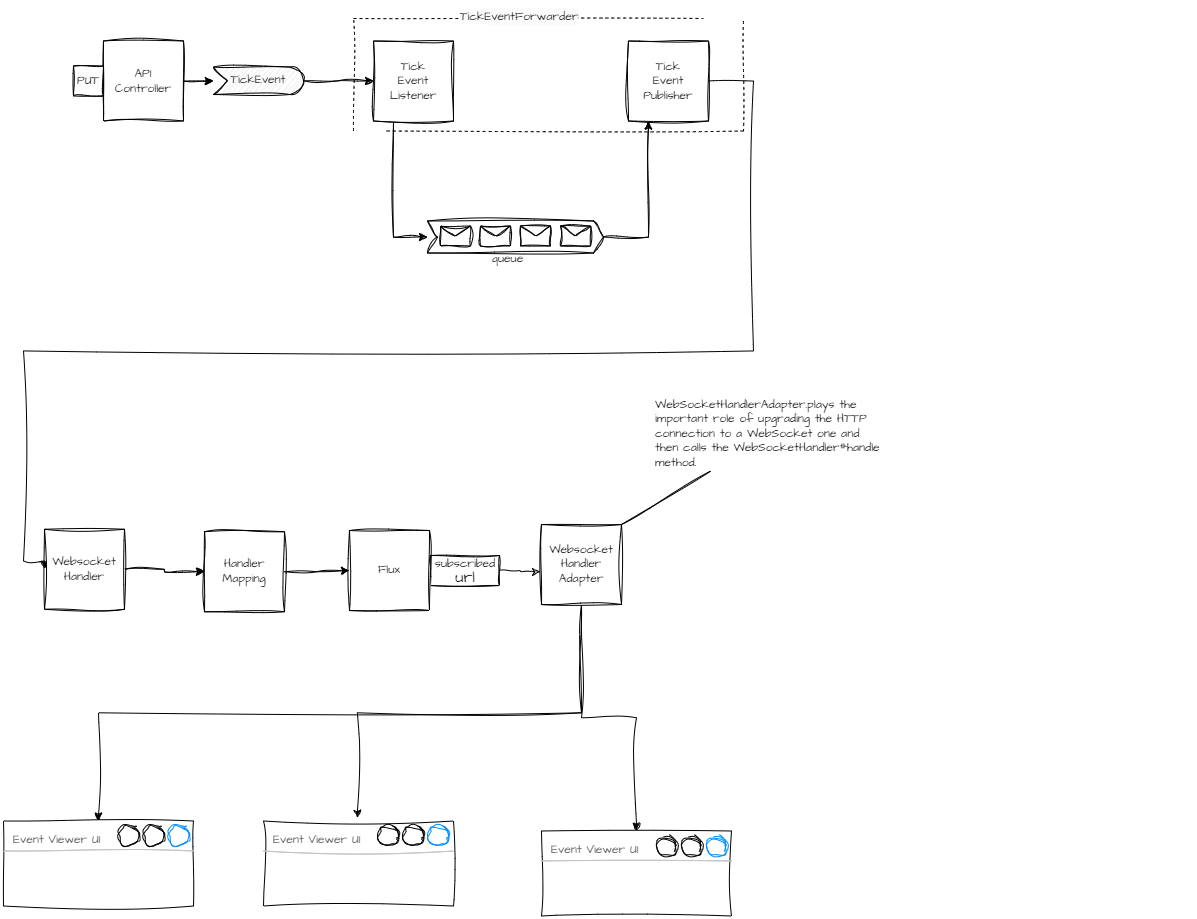
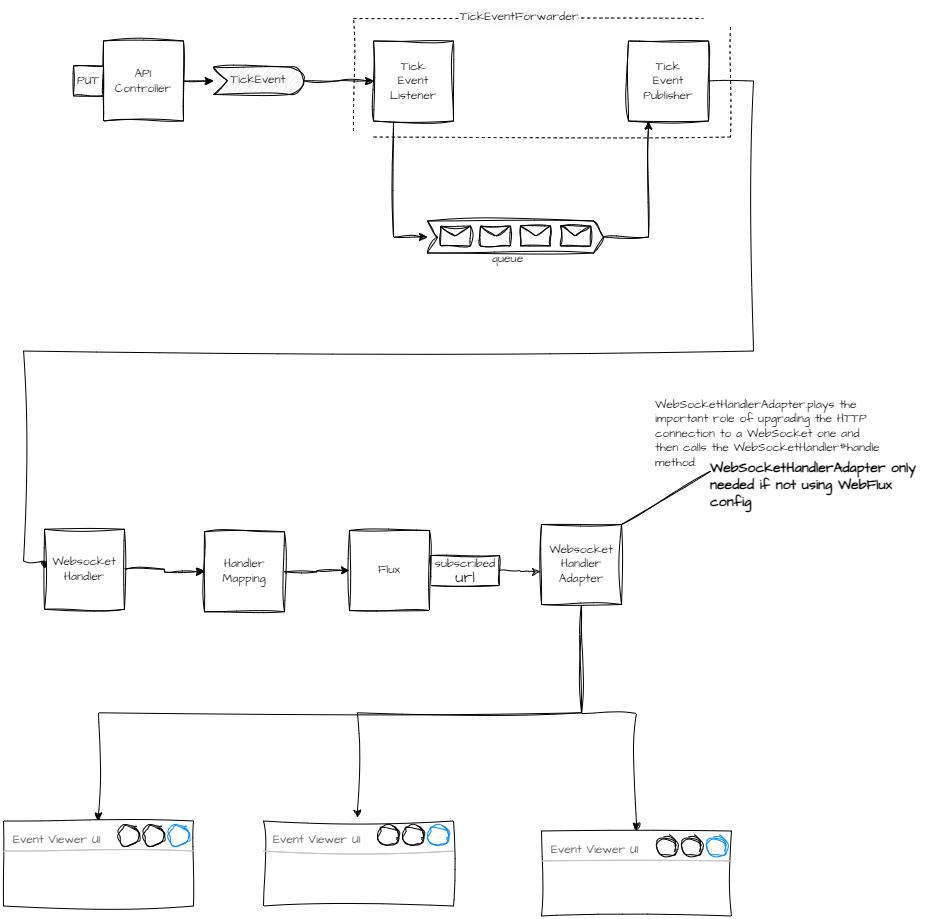
minor clean up of code plus added notes to explain websocket setup

diff --git a/exhibits/02-simple-websocket-app/a-time-ticker/ticker-api/src/main/java/com/zonesoft/ticker/api/configs/WebSocketConfiguration.java b/exhibits/02-simple-websocket-app/a-time-ticker/ticker-api/src/main/java/com/zonesoft/ticker/api/configs/WebSocketConfiguration.java
@@ -12,7 +12,7 @@ import org.springframework.web.reactive.HandlerMapping;
 import org.springframework.web.reactive.handler.SimpleUrlHandlerMapping;
 import org.springframework.web.reactive.socket.WebSocketHandler;
 import org.springframework.web.reactive.socket.WebSocketMessage;
-import org.springframework.web.reactive.socket.server.support.WebSocketHandlerAdapter;
+//import org.springframework.web.reactive.socket.server.support.WebSocketHandlerAdapter;
 import reactor.core.publisher.Flux;
 
 import java.util.Collections;
@@ -45,11 +45,6 @@ public class WebSocketConfiguration {
     }
 
     @Bean
-    public WebSocketHandlerAdapter webSocketHandlerAdapter() {
-        return new WebSocketHandlerAdapter();
-    }
-
-    @Bean
     public WebSocketHandler webSocketHandler(TickEventForwarder eventPublisher) {
     	LOGGER.debug("-----------  WebSocketHandler Bean invoked ----------------- ");
         Flux<TickEvent> publish = Flux.create(eventPublisher).share();
@@ -58,11 +53,16 @@ public class WebSocketConfiguration {
                     TickMessage source = (TickMessage) evt.getSource();
                     return source.toString();
             }).map(message -> {
-            	LOGGER.info("-----------  WebSocketHandler about to send following message ----------------- \n{}\n", message);
+            	LOGGER.info("----  WebSocketHandler about to send following message ---- \n{}\n", message);
                 return session.textMessage(message);
             });
             return session.send(messageFlux);
         };
     }
 
+//  @Bean
+//  public WebSocketHandlerAdapter webSocketHandlerAdapter() {
+//      return new WebSocketHandlerAdapter();
+//  }
+    
 }

diff --git a/exhibits/02-simple-websocket-app/notes/readme.md b/exhibits/02-simple-websocket-app/notes/readme.md
@@ -1,3 +1,5 @@
 ## Event Triggering Setup
 
 ![ticker-api-event-trigger](./ticker-api-event-trigger.png)
+
+![WebSocketConfig-explained](./WebSocketConfig-explained.png)
